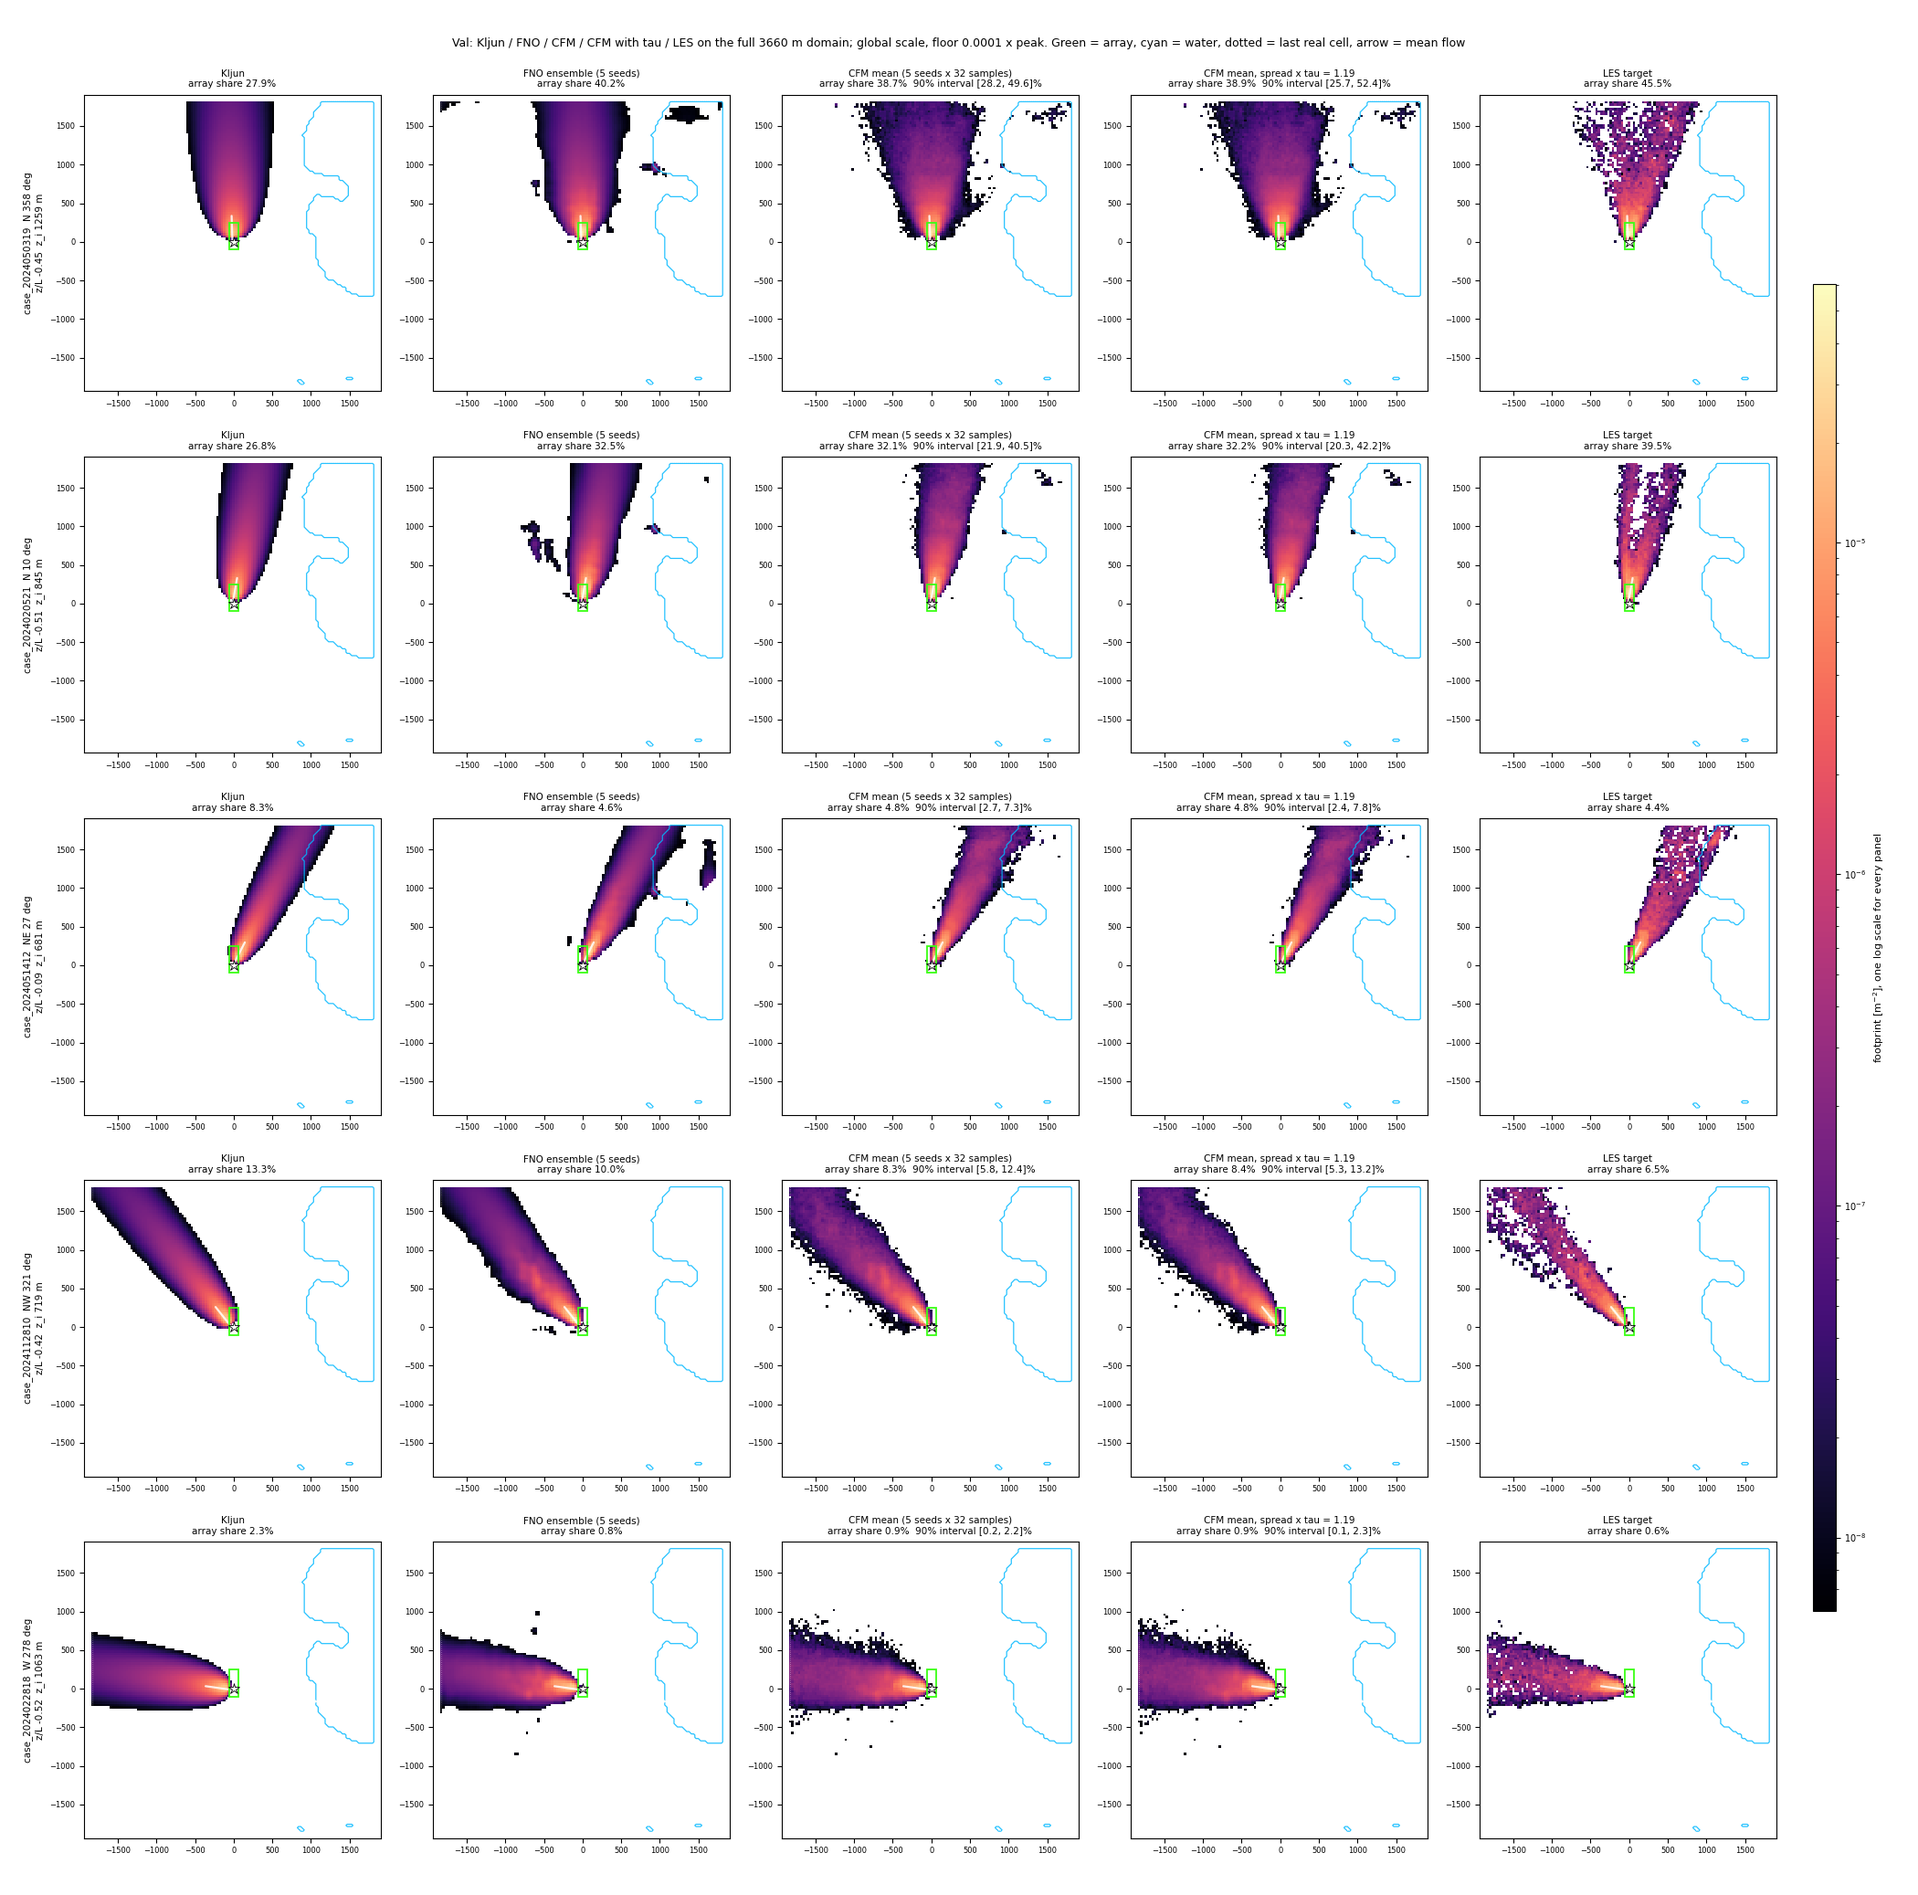
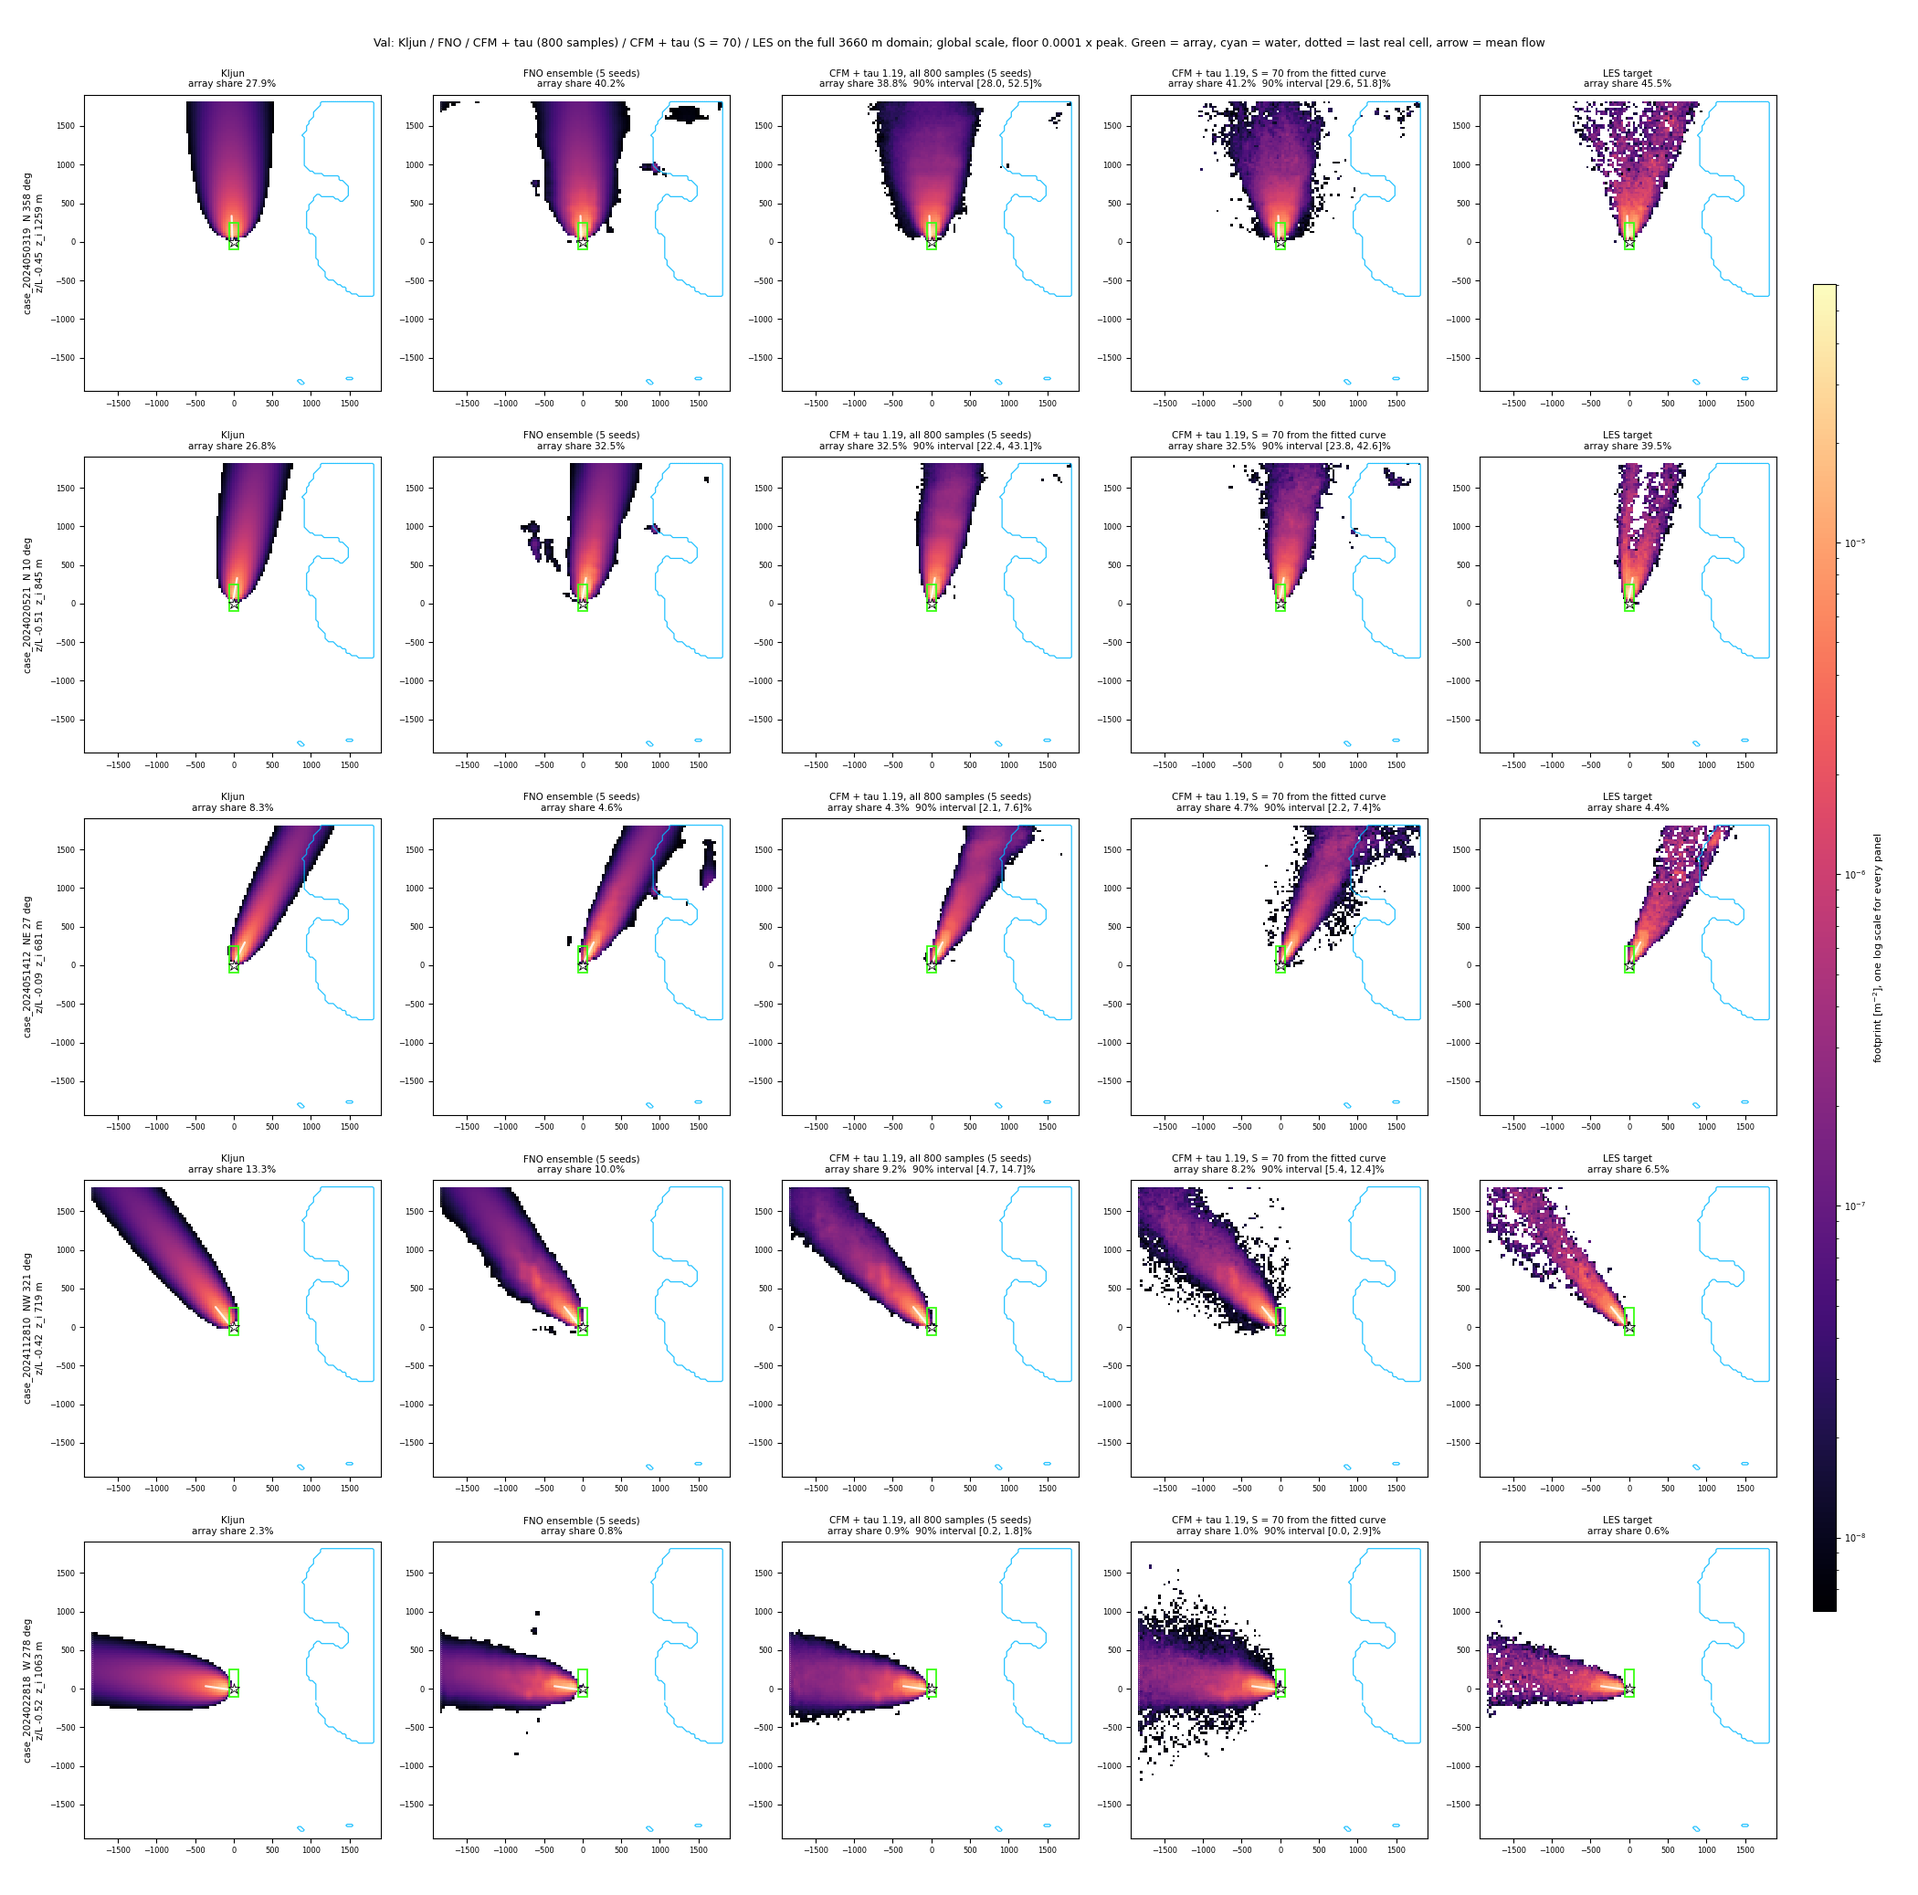
fig_models_val: Kljun / FNO / CFM+tau (800) / CFM+tau at the fitted S = 70 / LES

diff --git a/ml_cfm/fig_models_val.py b/ml_cfm/fig_models_val.py
@@ -1,5 +1,5 @@
 """Five val cases, full domain, one global log colour scale:
-Kljun | FNO ensemble | CFM mean | CFM mean with the spread scaled by tau | LES target.
+Kljun | FNO ensemble | CFM + tau (all stored samples) | CFM + tau at the fitted S | LES target.
 
     python -m ml_cfm.fig_models_val [--tau 1.19] [--out results/ml_cfm/calib/final/models_val.png]
 
@@ -30,6 +30,7 @@ def main(argv=None):
     ap.add_argument("--seeds", nargs="+", default=sorted(glob.glob(os.path.join(REPO, "results", "ml_cfm", "final", "seed?"))))
     ap.add_argument("--out", default=os.path.join(REPO, "results", "ml_cfm", "calib", "final", "models_val.png"))
     ap.add_argument("--floor", type=float, default=1e-4, help="colour floor as a fraction of the global peak")
+    ap.add_argument("--S-opt", type=int, default=70, help="the S read from the fitted curve (sample_saturation.md)")
     a = ap.parse_args(argv)
     import matplotlib
     matplotlib.use("Agg")
@@ -53,14 +54,21 @@ def main(argv=None):
     for sd in a.seeds:
         with np.load(os.path.join(sd, "samples_val.npz")) as z:
             assert np.array_equal(z["run_id"], split.meta["run_id"])
-            T.append(z["samples_T"][:, rows].astype(np.float32))
+            Ts = [z["samples_T"][:, rows].astype(np.float32)]
             s_out = z["s_out"].astype(np.float32)[rows]
-    T = np.concatenate(T)                                              # (S, 5, 128, 128)
+        for p_ in sorted(glob.glob(os.path.join(sd, "samples_val_extra*.npz"))):
+            Ts.append(np.load(p_)["samples_T"][:, rows].astype(np.float32))
+        T.append(np.concatenate(Ts))
+    per_seed = min(t.shape[0] for t in T)
+    k_opt = int(np.ceil(a.S_opt / len(T)))                             # samples per seed at the fitted S
+    T_opt = np.concatenate([t[:k_opt] for t in T])                     # seeds interleaved: k_opt from each
+    T = np.concatenate([t[:per_seed] for t in T])                      # (S_all, 5, 128, 128)
     phys = lambda TT: s_out[None, :, None, None] * np.sinh(np.clip(TT, -20, 20)) * valid
-    F = phys(T)
-    m = T.mean(0, keepdims=True)
-    Ft = phys(m + a.tau * (T - m))
+    temp = lambda TT: (lambda m: m + a.tau * (TT - m))(TT.mean(0, keepdims=True))
+    F = phys(temp(T))
+    Ft = phys(temp(T_opt))
     cfm, cfm_t = F.mean(0), Ft.mean(0)
+    S_all, S_opt = F.shape[0], Ft.shape[0]
     fno = np.mean([np.load(p)["fno"][rows] for p in sorted(glob.glob(os.path.join(REPO, "results", "ml", "final", "seed*", "pred_val.npz")))], axis=0)
     les, kl = split.target[rows], split.kljun[rows]
 
@@ -70,8 +78,8 @@ def main(argv=None):
     ext = [xe[0], xe[-1], xe[0], xe[-1]]
     surf = dict(water=st["water"] > 0.5, array=arr)
     share = lambda f: 100 * D.raster_array_share(f, arr)
-    cols = [("Kljun", kl), ("FNO ensemble (5 seeds)", fno), ("CFM mean (5 seeds x 32 samples)", cfm),
-            (f"CFM mean, spread x tau = {a.tau}", cfm_t), ("LES target", les)]
+    cols = [("Kljun", kl), ("FNO ensemble (5 seeds)", fno), (f"CFM + tau {a.tau}, all {S_all} samples (5 seeds)", cfm),
+            (f"CFM + tau {a.tau}, S = {S_opt} from the fitted curve", cfm_t), ("LES target", les)]
     fig, axes = plt.subplots(len(rows), 5, figsize=(21, 4.15 * len(rows)), squeeze=False)
     for r, i in enumerate(rows):
         wd = float(split.wdir_deg[i])
@@ -94,7 +102,7 @@ def main(argv=None):
     cb = fig.colorbar(im, cax=cax)
     cb.set_label("footprint [m$^{-2}$], one log scale for every panel", fontsize=8)
     cb.ax.tick_params(labelsize=7)
-    fig.suptitle(f"Val: Kljun / FNO / CFM / CFM with tau / LES on the full 3660 m domain; global scale, floor {a.floor:g} x peak. "
+    fig.suptitle(f"Val: Kljun / FNO / CFM + tau ({S_all} samples) / CFM + tau (S = {S_opt}) / LES on the full 3660 m domain; global scale, floor {a.floor:g} x peak. "
                  "Green = array, cyan = water, dotted = last real cell, arrow = mean flow", fontsize=9)
     fig.savefig(a.out, dpi=100)
     print("wrote", a.out, "cases", [split.meta["run_id"][i] for i in rows])
